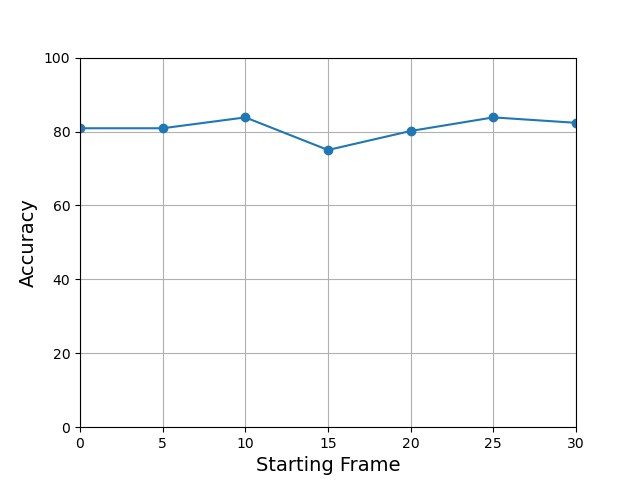
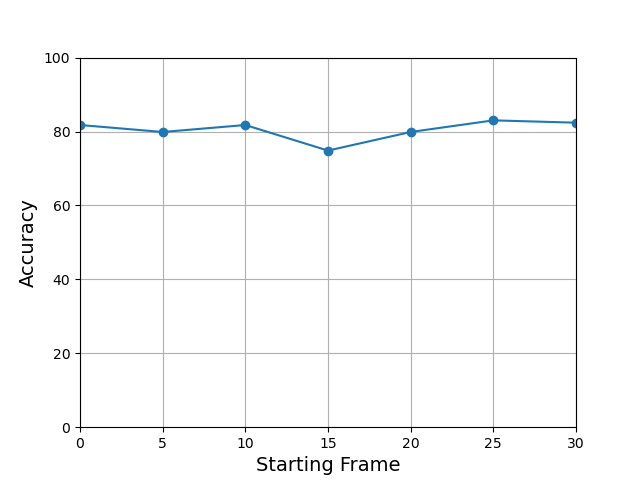
updated chucnk accuracies

Changed region(s): [[0.125, 0.2188, 0.625, 0.3125], [0.625, 0.2188, 0.875, 0.2812]]

diff --git a/run_accuracy_across_video.py b/run_accuracy_across_video.py
@@ -10,12 +10,12 @@ class Dataset_5_Frame_Chunks_No_Short_Videos(object):
             raise ValueError("Split must be 'test' or 'train'")
         
         self.processed_data = []
-        modal_frame_num = 38 # Mode of frames in the dataset
+        modal_frame_num = 35 # Mode of frames in the dataset
         for datum in self.data:
             x_video, y = datum
             x_video_chunks = []
             num_frames = x_video.shape[0]
-            if num_frames == modal_frame_num:
+            if num_frames > modal_frame_num:
                 for start_id in range(0, num_frames, 5):  # Get chunks of 5 frames
                     chunk = get_window_npy(x_video, start_id=start_id)
                     if chunk is not None:
@@ -58,8 +58,6 @@ def babble_loop_5_frame_chunk(model, data_loader, device): # Try the loss from c
 def chunk_losses_single(y_vals, av_vals, device):
     losses = []
     for j, video in enumerate(av_vals):  # Iterate over videos
-        # for chunk in video:
-        #     print(chunk[0].shape, chunk[1].shape) # a and v shapes
         a_vals, v_vals = zip(*video)  # Unzip a and v values
         a_vals = torch.stack(a_vals, dim=0)  # [Chunks, Batch, 128]
         v_vals = torch.stack(v_vals, dim=0)  # [Chunks, Batch, 128]
@@ -70,7 +68,6 @@ def chunk_losses_single(y_vals, av_vals, device):
         v_mean = v_mean.to(device)
         y = y.to(device)
         loss = gru2.cosine_loss(a_mean, v_mean, y)
-        # print(f"Loss for video {j}: {loss.item()}")
         losses.append(loss.cpu().item())  # Store loss on CPU to avoid GPU memory issues
     return losses
 
@@ -114,13 +111,7 @@ if __name__ == "__main__":
     # acc_test = test_accuracy(losses_5_frame_chunks, y_vals_5_frame_chunks, threshold, flip=False)
     # print(f"Test accuracy: {acc_test}")
 
-    print(av_val_list[0][0][0].shape, av_val_list[0][0][1].shape)  # Check shapes of a and v
-
-
-    print(len(av_val_list[0][0]))  # Number of videos
-    num_chunks = len(av_val_list[0][0])  # Number of chunks in the first video
-    print(num_chunks)
-    num_chunks = 7
+    num_chunks = 7 # Hardcoded number of chunks, can be adjusted based on the dataset, based on dataset with >35 frames
     all_losses = [[] for _ in range(num_chunks)]  # Initialize losses for each chunk
     for j, video in enumerate(av_val_list):  # Iterate over videos
         a_vals, v_vals = zip(*video)  # Unzip a and v values
